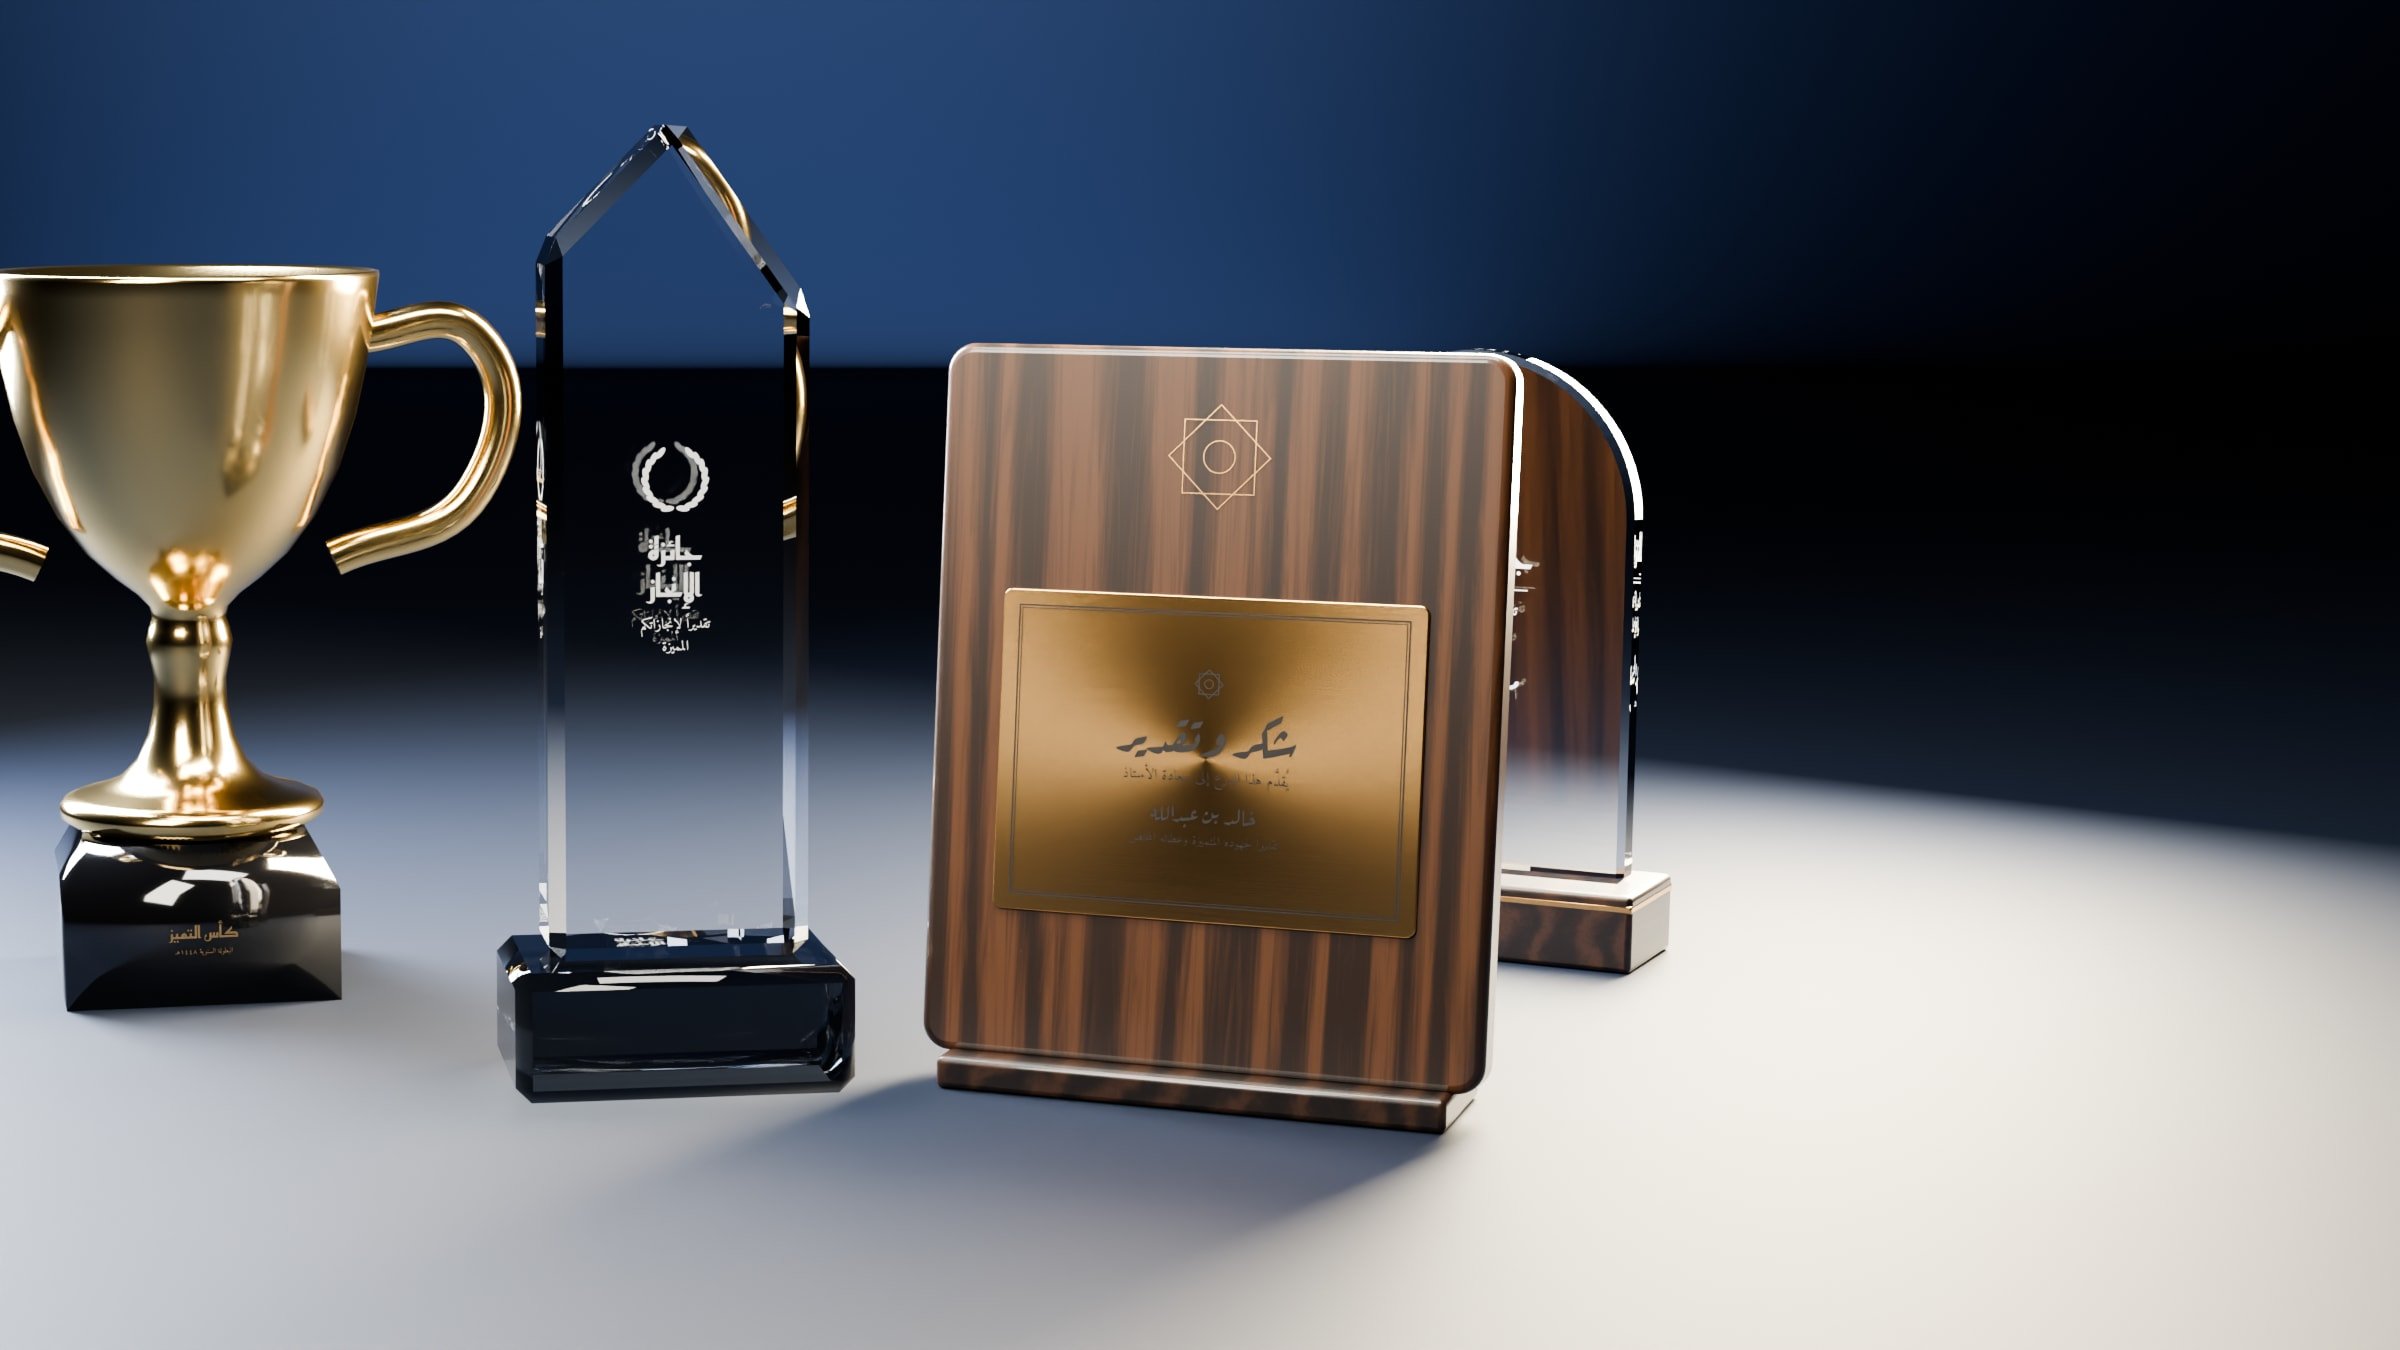
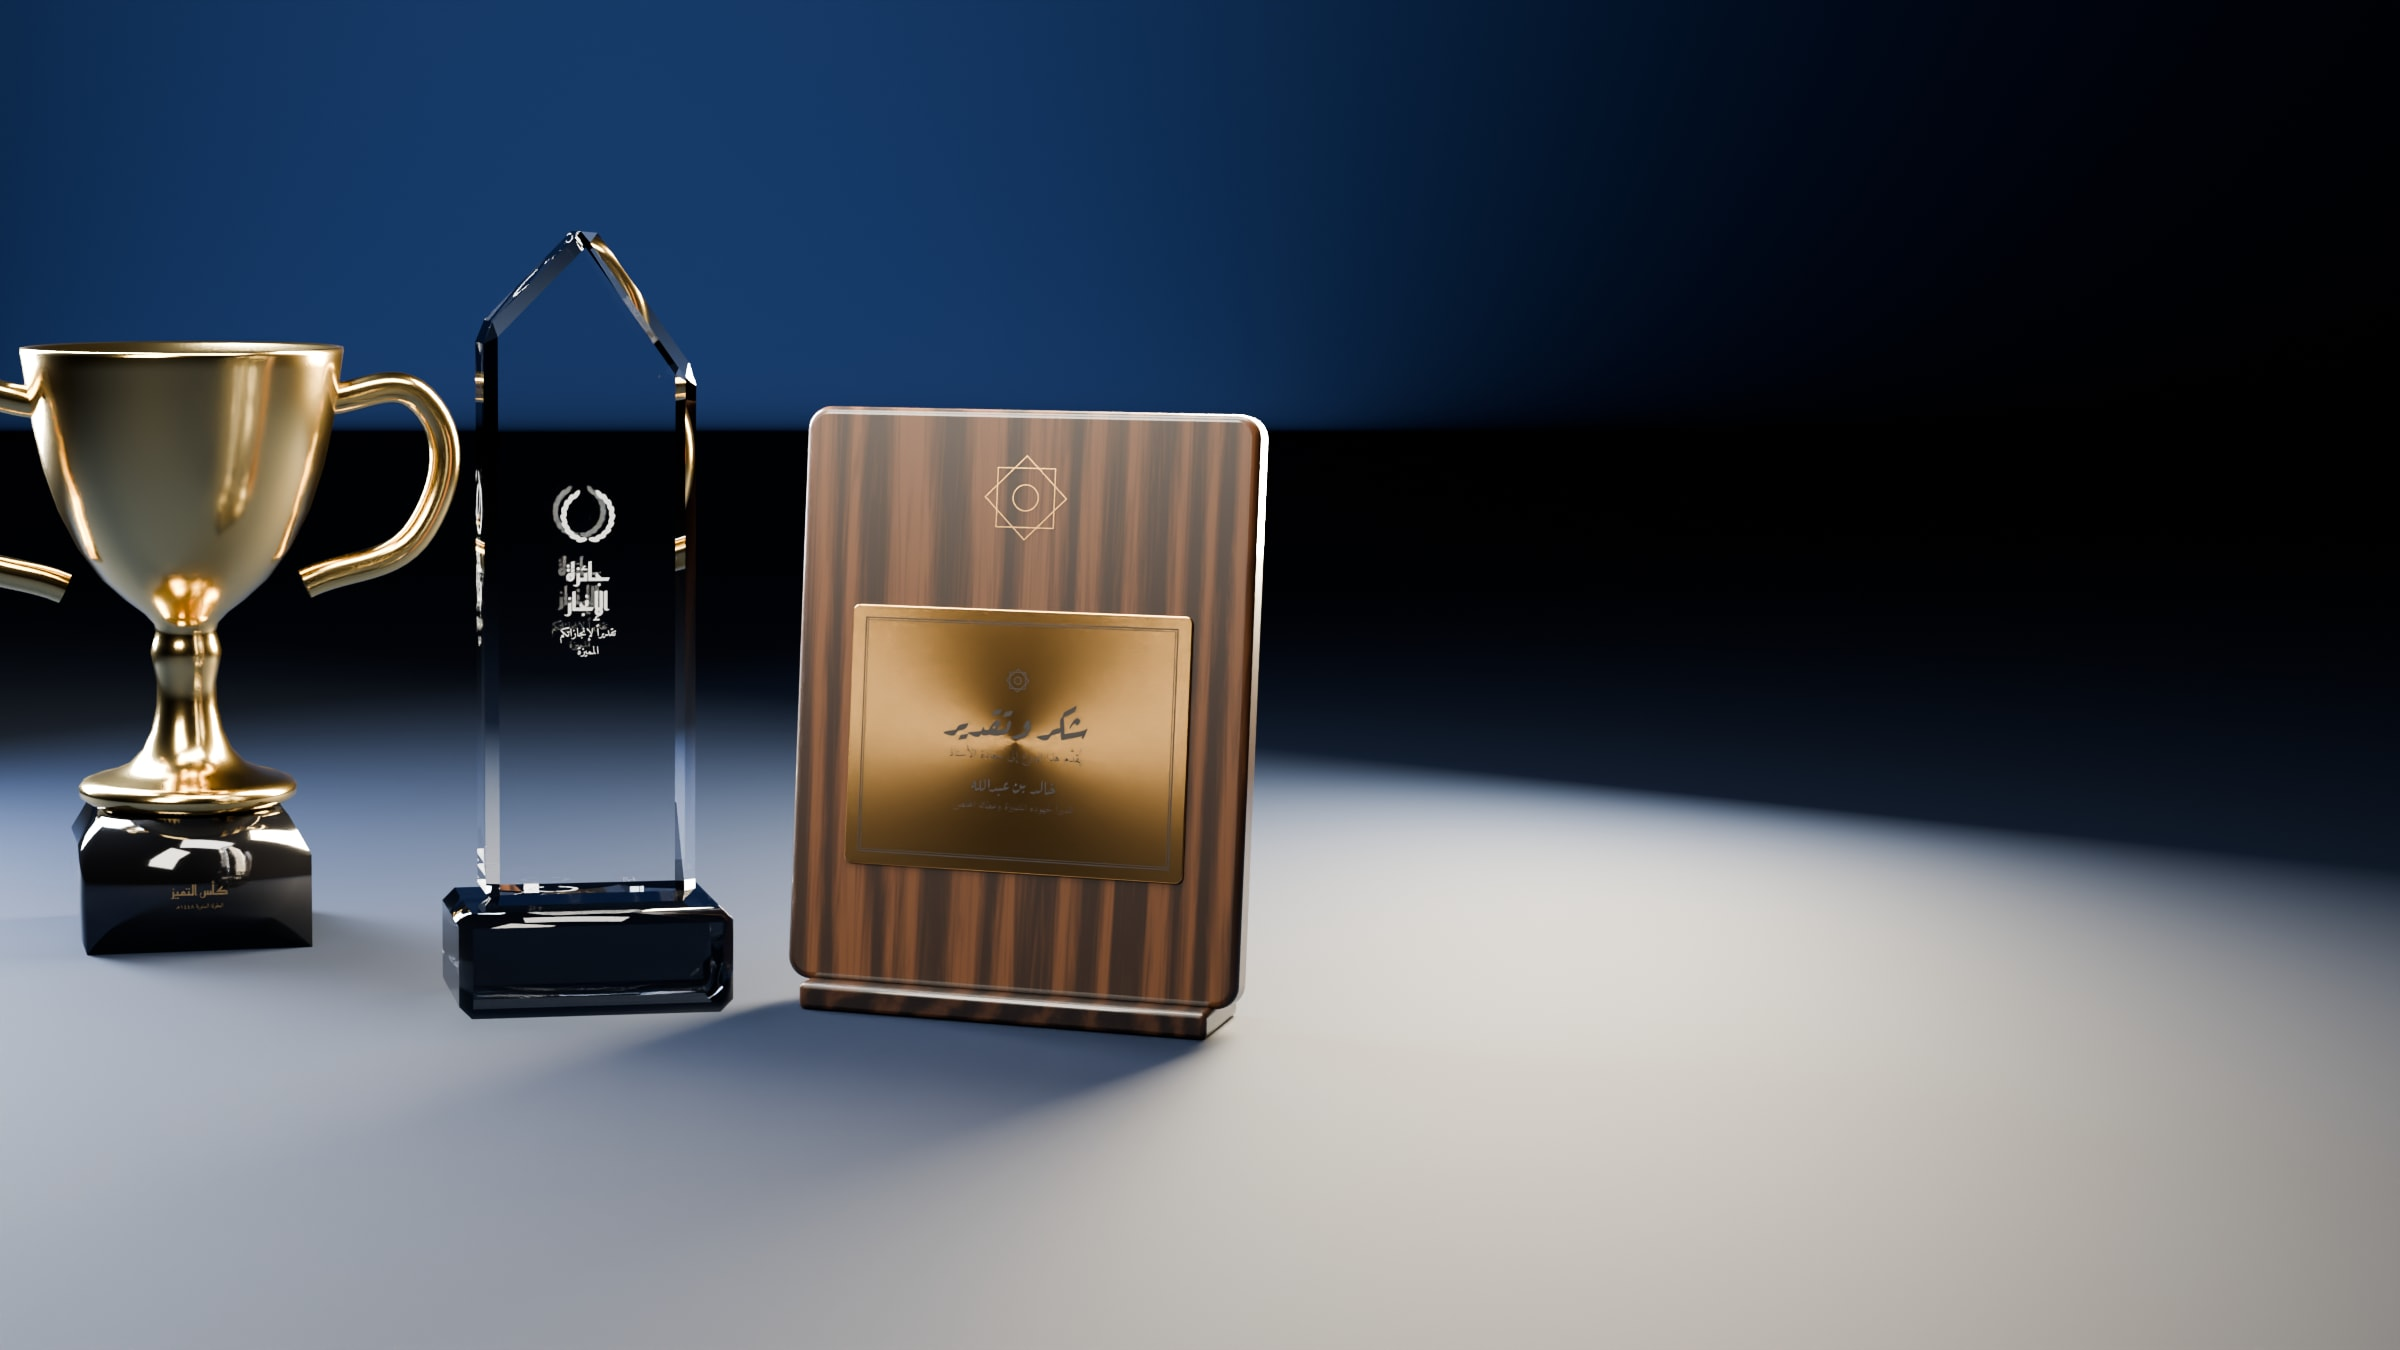
Re-render hero with room for headline; tablet uses portrait hero
Claude-Session: https://claude.ai/code/session_01MibTMMXV9WFVqo1t5dgxz1

diff --git a/src/components/Hero.jsx b/src/components/Hero.jsx
@@ -11,7 +11,7 @@ export default function Hero() {
     <section id="home" className="on-dark relative isolate flex min-h-[100svh] flex-col overflow-hidden bg-navy-900 text-ivory-100" aria-labelledby="hero-title">
       {/* background composition */}
       <picture className="absolute inset-0 -z-20 block">
-        {d && <source media="(min-width: 768px)" srcSet={srcSet('hero')} sizes="100vw" width={d.w} height={d.h} />}
+        {d && <source media="(min-width: 1024px)" srcSet={srcSet('hero')} sizes="100vw" width={d.w} height={d.h} />}
         <img
           src={imgUrl('hero_m', 800)}
           srcSet={srcSet('hero_m')}
@@ -21,16 +21,16 @@ export default function Hero() {
           alt="تشكيلة من دروع التكريم الخشبية وجوائز الكريستال والكؤوس الذهبية"
           fetchPriority="high"
           decoding="sync"
-          className="h-[68%] w-full animate-hero-zoom object-cover object-[50%_35%] md:h-full md:object-[22%_50%]"
+          className="h-[68%] w-full animate-hero-zoom object-cover object-[50%_35%] md:h-[72%] lg:h-full lg:object-[0%_50%]"
         />
       </picture>
       {/* overlays: legibility on the text side (right in RTL) */}
-      <div className="absolute inset-0 -z-10 bg-linear-to-t from-navy-900 from-35% via-navy-900/40 via-60% to-navy-900/10 md:bg-linear-to-l md:from-navy-900 md:from-25% md:via-navy-900/75 md:via-50% md:to-transparent md:to-80%" />
+      <div className="absolute inset-0 -z-10 bg-linear-to-t from-navy-900 from-35% via-navy-900/40 via-60% to-navy-900/10 lg:bg-linear-to-l lg:from-navy-900 lg:from-30% lg:via-navy-900/80 lg:via-50% lg:to-transparent lg:to-75%" />
       <div className="absolute inset-x-0 top-0 -z-10 h-40 bg-linear-to-b from-navy-950/80 to-transparent" />
-      <div className="pattern-star absolute inset-y-0 right-0 -z-10 hidden w-[38%] opacity-[0.035] md:block" />
+      <div className="pattern-star absolute inset-y-0 right-0 -z-10 hidden w-[38%] opacity-[0.035] lg:block" />
 
-      <div className="container-x relative flex flex-1 flex-col justify-end pt-28 pb-10 md:justify-center md:pt-32 md:pb-24">
-        <div className="max-w-[40rem] lg:max-w-[44rem]">
+      <div className="container-x relative flex flex-1 flex-col justify-end pt-28 pb-10 md:pb-16 lg:justify-center lg:pt-32 lg:pb-24">
+        <div className="max-w-[40rem] lg:max-w-[38rem] xl:max-w-[42rem]">
           {contact.rating ? (
             <a
               href={contact.map.directionsUrl}
@@ -54,7 +54,7 @@ export default function Hero() {
             </p>
           )}
 
-          <h1 id="hero-title" className="mt-6 font-display text-[2.75rem] leading-[1.25] font-bold sm:text-6xl sm:leading-[1.22] lg:text-[4.6rem] xl:text-[5.1rem]">
+          <h1 id="hero-title" className="mt-6 font-display text-[2.75rem] leading-[1.25] font-bold sm:text-6xl sm:leading-[1.22] lg:text-[4.1rem] xl:text-[4.6rem]">
             <span className="block animate-fade-up" style={{ animationDelay: '300ms' }}>
               نصنع لحظات التقدير...
             </span>
@@ -89,7 +89,7 @@ export default function Hero() {
       </div>
 
       {/* scroll cue + vertical latin mark */}
-      <a href="#categories" aria-label="انتقل إلى الأقسام" className="absolute bottom-8 left-1/2 hidden -translate-x-1/2 flex-col items-center gap-3 text-ivory-100/50 transition-colors hover:text-gold-300 md:flex">
+      <a href="#categories" aria-label="انتقل إلى الأقسام" className="absolute bottom-8 left-1/2 hidden -translate-x-1/2 flex-col items-center gap-3 text-ivory-100/50 transition-colors hover:text-gold-300 lg:flex">
         <span className="font-latin text-[0.7rem] tracking-[0.35em]">SCROLL</span>
         <span className="relative block h-12 w-px overflow-hidden bg-ivory-100/15">
           <span className="absolute inset-x-0 top-0 h-1/2 animate-[scrollcue_2.2s_var(--ease-luxe)_infinite] bg-gold-400" />
